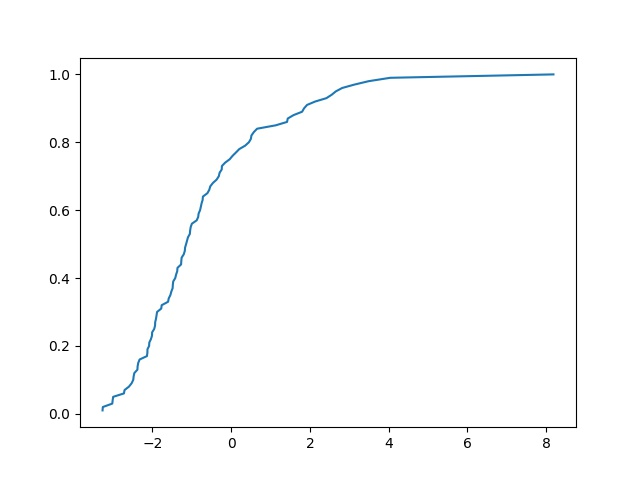
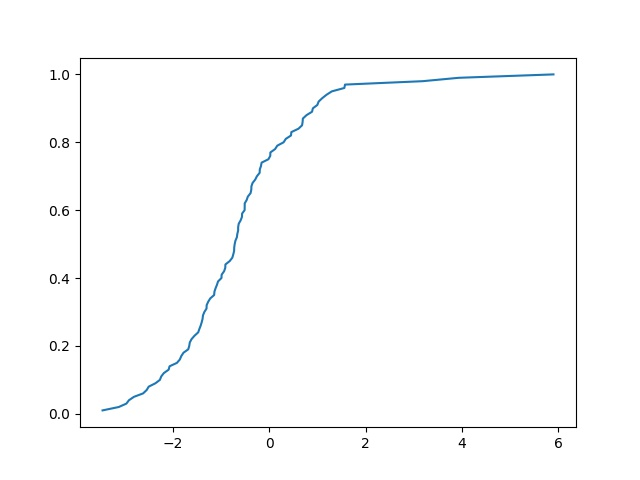
2-2 done

diff --git a/src/hw6/main.py b/src/hw6/main.py
@@ -447,7 +447,7 @@ if __name__ == "__main__":
     ################################ 1-2 ################################
     innerCells = [cell for cell in env0.cells[:7]]
     dataPoints_1, dataPoints_2 = [], []
-    resourceEffs = []
+    resourceEffs_1, resourceEffs_2 = [], []
     for idx in range(simIt):
         for cell in innerCells:
             cell.clear()
@@ -462,14 +462,20 @@ if __name__ == "__main__":
             )
         dataPoints_1.append(poorestSINRs_1)
         dataPoints_2.append(min(poorestSINRs_2))
-        resourceEff = []; i = 0
+        resourceEff_1 = []; i = 0
+        msCount = 0
         for cell in innerCells:
             shnCp = cell.MSs[0].shannonCapacity(cell, sinr=dataPoints_1[-1][i])
-            resourceEff.append(
+            resourceEff_1.append(
                 shnCp / cell.MSs[0].getBandwidth() * cell.msNum
             )
+            msCount += cell.msNum
             i += 1
-        resourceEffs.append(resourceEff)
+        resourceEffs_1.append(resourceEff_1)
+        shnCp = innerCells[0].MSs[0].shannonCapacity(innerCells[0], sinr=dataPoints_2[-1])
+        resourceEffs_2.append(
+            shnCp / innerCells[0].MSs[0].getBandwidth() * msCount
+        )
 
     dataPoints_1 = np.array(dataPoints_1)
     for idx in range(7):
@@ -484,18 +490,19 @@ if __name__ == "__main__":
         plt.close()
 
     ################################ 1-3 ################################
-    resourceEffs = np.array(resourceEffs)
-    resourceEffs = resourceEffs.sum(axis=0) / simIt
-    aveDataRate = []
+    resourceEffs_1 = np.array(resourceEffs_1)
+    resourceEffs_1 = resourceEffs_1.sum(axis=0) / simIt
+    aveDataRate_1 = []
     for idx in range(simIt):
         poorestSINRs_1 = dataPoints_1[idx]
         dataRates = []
         for poorestSINR_1 in poorestSINRs_1:
             shnCp = innerCells[0].MSs[0].shannonCapacity(innerCells[0], sinr=poorestSINR_1)
             dataRates.append(shnCp)
-        aveDataRate.append(dataRates)
-    aveDataRate = np.array(aveDataRate)
-    aveDataRate = aveDataRate.sum(axis=0) / simIt
+        aveDataRate_1.append(dataRates)
+    aveDataRate_1 = np.array(aveDataRate_1)
+    aveDataRate_1 = aveDataRate_1.sum(axis=0) / simIt
+    print(aveDataRate_1)
 
     ################################ 2-1 ################################
     dataPoints_2 = np.array(dataPoints_2)
@@ -506,3 +513,6 @@ if __name__ == "__main__":
     plt.close()
 
     ################################ 2-2 ################################
+    resourceEffs_2 = np.array(resourceEffs_2) / simIt
+    aveDataRate_2 = sum([innerCells[0].MSs[0].shannonCapacity(innerCells[0], sinr=dataPoints_2[idx]) for idx in range(simIt)]) / simIt
+    print(aveDataRate_2)
